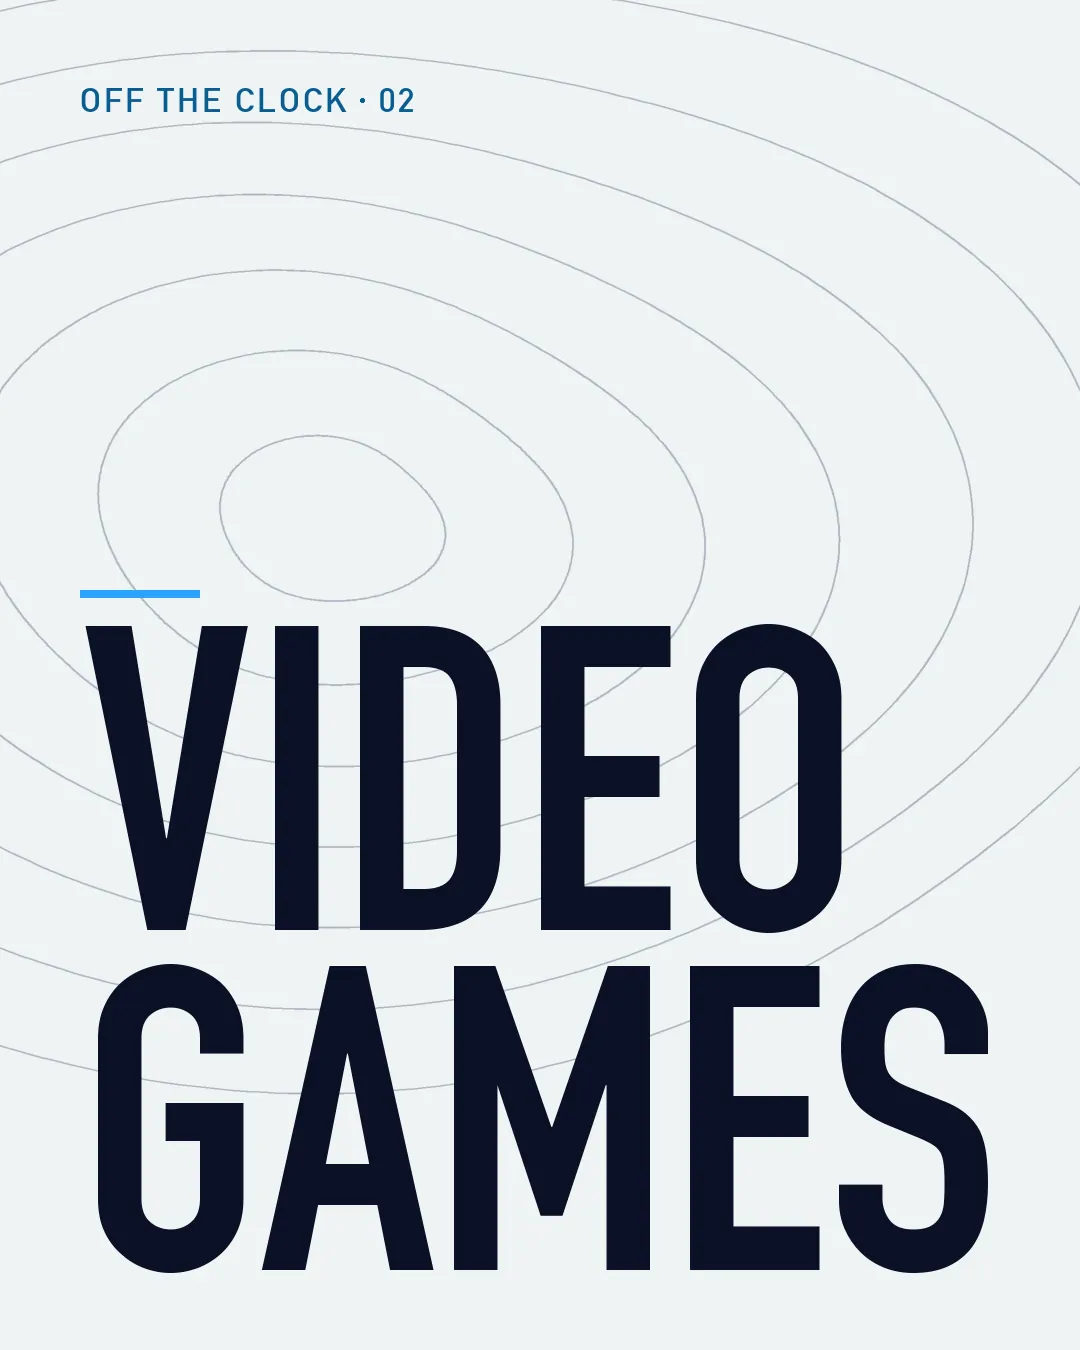
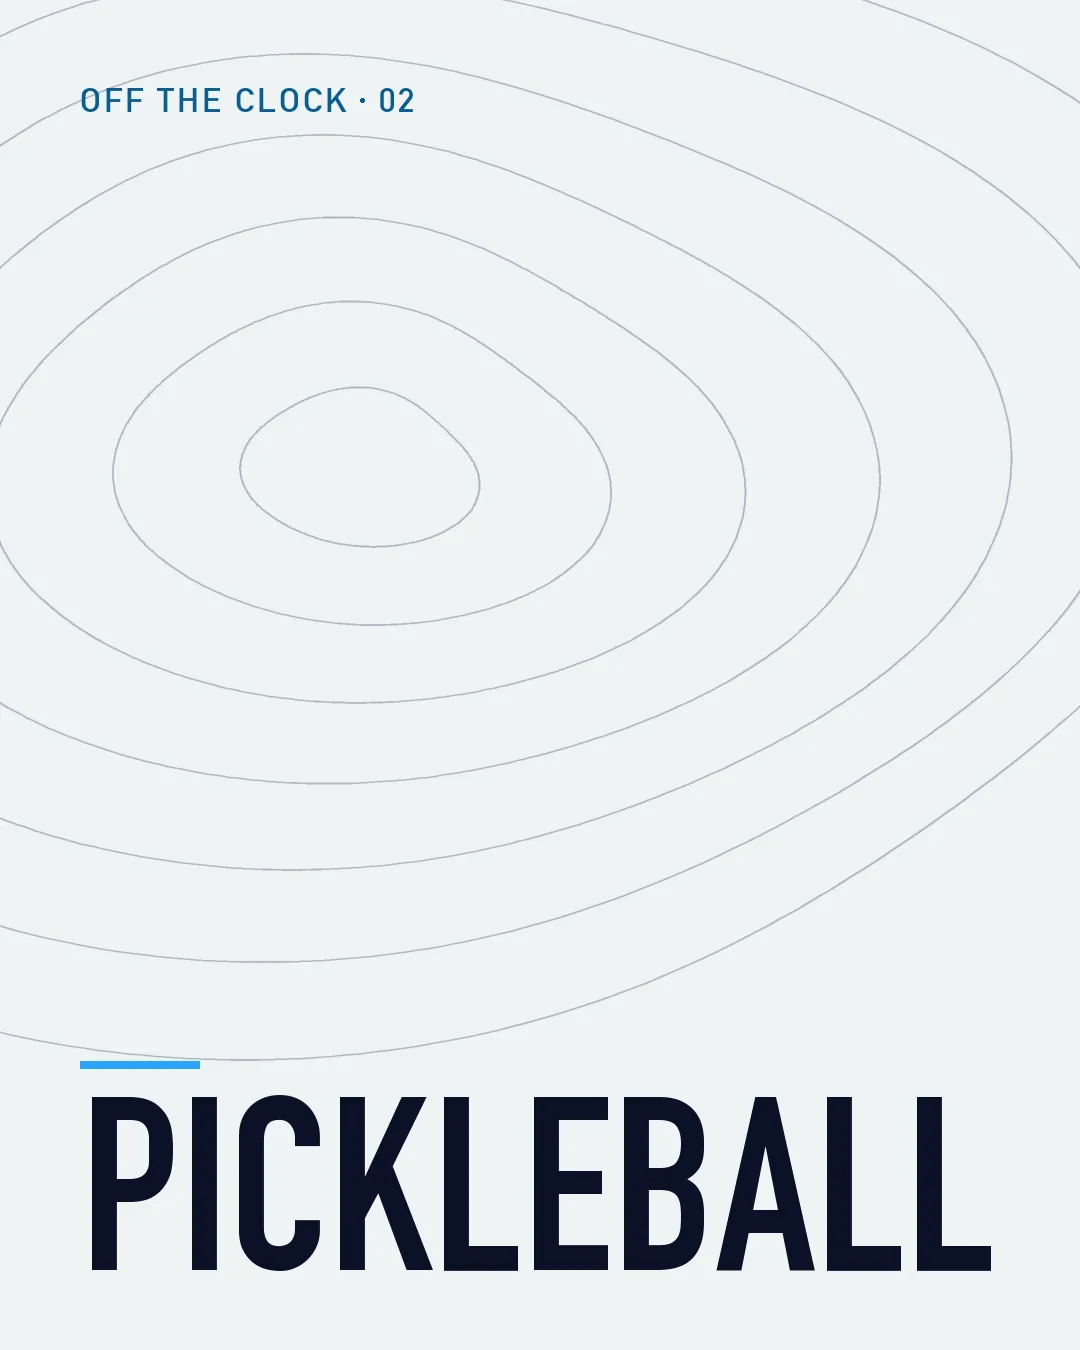
feat: Speaker achievement, barong photo on Cum Laude, reordered hobbies and Skills cards
- Achievements: Cum Laude uses the barong portrait; new Speaker card (AI for Healthcare, 10th CVHRIC,
  Bohol Cultural Center, May 2025) from the conference photo; cards alternate sides on wide screens
- Off the clock: tiles regenerated in the order Basketball, Pickleball, Coffee hopping, Trail hiking,
  Video games, TV series (numbers and dark/light follow it); hobby tags in the same order
- Profession: "Production AI ownership" -> "AI ownership"
- Skills: Software Engineering first, AI Engineering second
- Removed the unused grad-1 photos; cvhric.jpg (has GPS location) left out of the repo, only its web crops ship

diff --git a/index.html b/index.html
@@ -242,7 +242,7 @@
                 <h3 class="cond">Smartsourcing</h3>
                 <p class="stop-role">AI Engineer</p>
                 <p class="skill-desc">Co-leading the development of production-ready AI agents and scalable internal platforms, automating complex workflows, reducing reliance on costly SaaS solutions, and delivering secure, reliable systems from concept to deployment.</p>
-                <ul class="tags"><li>Production AI ownership</li><li>Intelligent agents</li><li>Scalable business solutions</li></ul>
+                <ul class="tags"><li>AI ownership</li><li>Intelligent agents</li><li>Scalable business solutions</li></ul>
               </article>
             </li>
           </ol>
@@ -297,6 +297,25 @@
           </div>
           <div class="skills-grid">
             <article class="hud skill" data-reveal style="--i:0">
+              <p class="hud-label">Build</p>
+              <h3 class="cond">Software Engineering</h3>
+              <p class="skill-desc">Building scalable, full-stack softwares and internal platforms, from interfaces and APIs to databases and integrations, with a focus on solving business challenges and streamlining operations.</p>
+              <ul class="logos">
+                <li><img src="./src/assets/logos/python-original.svg" alt="" width="20" height="20" loading="lazy" decoding="async" /><span>Python</span></li>
+                <li><img src="./src/assets/logos/typescript-original.svg" alt="" width="20" height="20" loading="lazy" decoding="async" /><span>TypeScript</span></li>
+                <li><img src="./src/assets/logos/javascript-original.svg" alt="" width="20" height="20" loading="lazy" decoding="async" /><span>JavaScript</span></li>
+                <li><img src="./src/assets/logos/react-original.svg" alt="" width="20" height="20" loading="lazy" decoding="async" /><span>React</span></li>
+                <li><img src="./src/assets/logos/django-plain.svg" alt="" width="20" height="20" loading="lazy" decoding="async" /><span>Django</span></li>
+                <li><img src="./src/assets/logos/fastapi-original.svg" alt="" width="20" height="20" loading="lazy" decoding="async" /><span>FastAPI</span></li>
+                <li><img src="./src/assets/logos/postgresql-original.svg" alt="" width="20" height="20" loading="lazy" decoding="async" /><span>PostgreSQL</span></li>
+                <li><img src="./src/assets/logos/microsoftsqlserver-plain.svg" alt="" width="20" height="20" loading="lazy" decoding="async" /><span>MS SQL Server</span></li>
+                <li><img src="./src/assets/logos/supabase-original.svg" alt="" width="20" height="20" loading="lazy" decoding="async" /><span>Supabase</span></li>
+                <li><img src="./src/assets/logos/playwright-original.svg" alt="" width="20" height="20" loading="lazy" decoding="async" /><span>Playwright</span></li>
+                <li><img src="./src/assets/logos/jest-plain.svg" alt="" width="20" height="20" loading="lazy" decoding="async" /><span>Jest</span></li>
+                <li><img src="./src/assets/logos/cypressio-original.svg" alt="" width="20" height="20" loading="lazy" decoding="async" /><span>Cypress</span></li>
+              </ul>
+            </article>
+            <article class="hud skill" data-reveal style="--i:1">
               <p class="hud-label">AI</p>
               <h3 class="cond">AI Engineering</h3>
               <p class="skill-desc">Designing and deploying production-ready AI agents, RAG systems, and intelligent workflows through LLM integration, orchestration, and evaluation, with a focus on security, reliability, and cost efficiency.</p>
@@ -317,25 +336,6 @@
                 <li><img src="./src/assets/logos/icon-evals.svg" alt="" width="20" height="20" loading="lazy" decoding="async" /><span>LLMOps &amp; Evals</span></li>
                 <li><img src="./src/assets/logos/n8n.svg" alt="" width="20" height="20" loading="lazy" decoding="async" /><span>n8n</span></li>
                 <li><img src="./src/assets/logos/microsoft.svg" alt="" width="20" height="20" loading="lazy" decoding="async" /><span>Power Automate</span></li>
-              </ul>
-            </article>
-            <article class="hud skill" data-reveal style="--i:1">
-              <p class="hud-label">Build</p>
-              <h3 class="cond">Software Engineering</h3>
-              <p class="skill-desc">Building scalable, full-stack softwares and internal platforms, from interfaces and APIs to databases and integrations, with a focus on solving business challenges and streamlining operations.</p>
-              <ul class="logos">
-                <li><img src="./src/assets/logos/python-original.svg" alt="" width="20" height="20" loading="lazy" decoding="async" /><span>Python</span></li>
-                <li><img src="./src/assets/logos/typescript-original.svg" alt="" width="20" height="20" loading="lazy" decoding="async" /><span>TypeScript</span></li>
-                <li><img src="./src/assets/logos/javascript-original.svg" alt="" width="20" height="20" loading="lazy" decoding="async" /><span>JavaScript</span></li>
-                <li><img src="./src/assets/logos/react-original.svg" alt="" width="20" height="20" loading="lazy" decoding="async" /><span>React</span></li>
-                <li><img src="./src/assets/logos/django-plain.svg" alt="" width="20" height="20" loading="lazy" decoding="async" /><span>Django</span></li>
-                <li><img src="./src/assets/logos/fastapi-original.svg" alt="" width="20" height="20" loading="lazy" decoding="async" /><span>FastAPI</span></li>
-                <li><img src="./src/assets/logos/postgresql-original.svg" alt="" width="20" height="20" loading="lazy" decoding="async" /><span>PostgreSQL</span></li>
-                <li><img src="./src/assets/logos/microsoftsqlserver-plain.svg" alt="" width="20" height="20" loading="lazy" decoding="async" /><span>MS SQL Server</span></li>
-                <li><img src="./src/assets/logos/supabase-original.svg" alt="" width="20" height="20" loading="lazy" decoding="async" /><span>Supabase</span></li>
-                <li><img src="./src/assets/logos/playwright-original.svg" alt="" width="20" height="20" loading="lazy" decoding="async" /><span>Playwright</span></li>
-                <li><img src="./src/assets/logos/jest-plain.svg" alt="" width="20" height="20" loading="lazy" decoding="async" /><span>Jest</span></li>
-                <li><img src="./src/assets/logos/cypressio-original.svg" alt="" width="20" height="20" loading="lazy" decoding="async" /><span>Cypress</span></li>
               </ul>
             </article>
             <article class="hud skill" data-reveal style="--i:2">
@@ -371,7 +371,7 @@
             <li class="hud achievement" data-reveal>
               <div class="achievement-media">
                 <div class="carousel" data-carousel>
-                  <img class="is-current" src="./src/assets/images/grad-1-1080.webp" srcset="./src/assets/images/grad-1-480.webp 480w, ./src/assets/images/grad-1-1080.webp 1080w" sizes="(max-width: 900px) 92vw, 46vw" alt="Portrait of Bronn Samson" width="1080" height="810" decoding="async" />
+                  <img class="is-current" src="./src/assets/images/barong-1080.webp" srcset="./src/assets/images/barong-480.webp 480w, ./src/assets/images/barong-1080.webp 1080w" sizes="(max-width: 900px) 92vw, 46vw" alt="Bronn Samson in a barong Tagalog" width="1080" height="810" decoding="async" />
                   <div class="carousel-ui">
                     <button type="button" class="carousel-btn" data-step="-1" aria-label="Previous photo"><svg class="icon" viewBox="0 0 24 24" aria-hidden="true"><path d="m15 5-7 7 7 7" /></svg></button>
                     <div class="carousel-dots"></div>
@@ -393,6 +393,30 @@
                 <div class="achievement-actions">
                   <a class="text-link" href="#profession">Experience</a>
                 </div>
+              </div>
+            </li>
+            <li class="hud achievement" data-reveal>
+              <div class="achievement-media">
+                <div class="carousel" data-carousel>
+                  <img class="is-current" src="./src/assets/images/cvhric-1080.webp" srcset="./src/assets/images/cvhric-480.webp 480w, ./src/assets/images/cvhric-1080.webp 1080w" sizes="(max-width: 900px) 92vw, 46vw" alt="Bronn Samson holding his certificate on stage at the 10th Central Visayas Health Research &amp; Innovation Conference" width="1080" height="810" loading="lazy" decoding="async" />
+                  <div class="carousel-ui">
+                    <button type="button" class="carousel-btn" data-step="-1" aria-label="Previous photo"><svg class="icon" viewBox="0 0 24 24" aria-hidden="true"><path d="m15 5-7 7 7 7" /></svg></button>
+                    <div class="carousel-dots"></div>
+                    <button type="button" class="carousel-btn" data-step="1" aria-label="Next photo"><svg class="icon" viewBox="0 0 24 24" aria-hidden="true"><path d="m9 5 7 7-7 7" /></svg></button>
+                  </div>
+                </div>
+                <span class="achievement-badge"><svg class="icon" viewBox="0 0 24 24" aria-hidden="true"><path d="M12 3a3 3 0 0 0-3 3v5a3 3 0 0 0 6 0V6a3 3 0 0 0-3-3ZM5.5 11a6.5 6.5 0 0 0 13 0M12 17.5V21M8.5 21h7" /></svg>Speaker</span>
+              </div>
+              <div class="achievement-body">
+                <p class="hud-label">Health Research Conference Speaker</p>
+                <h3 class="cond">Speaker<span>AI for Healthcare</span></h3>
+                <p class="achievement-desc">Spoke on AI for healthcare at the 10th Central Visayas Health Research &amp; Innovation Conference (CVHRIC) in Tagbilaran City, Bohol.</p>
+                <dl class="achievement-facts">
+                  <div><dt>Conference</dt><dd>10th CVHRIC</dd></div>
+                  <div><dt>Venue</dt><dd>Bohol Cultural Center</dd></div>
+                  <div><dt>Date</dt><dd>May 2025</dd></div>
+                </dl>
+                <ul class="tags"><li>AI for healthcare</li><li>Health research</li><li>Public speaking</li></ul>
               </div>
             </li>
           </ul>
@@ -435,16 +459,16 @@
               <div class="offclock-bubble">
                 <p class="hud-label">Bronny</p>
                 <p class="offclock-desc">When I'm not debugging or designing systems, I'm on the basketball or pickleball court, hiking trails and mountains, deep in a video game or a TV series, or hopping between coffee shops around the city.</p>
-                <ul class="tags hobby-tags"><li><svg class="icon" viewBox="0 0 24 24" aria-hidden="true"><path d="M12 3a9 9 0 1 0 0 18 9 9 0 0 0 0-18ZM3 12h18M12 3v18M5.6 5.6c3.2 3.4 3.2 9.4 0 12.8M18.4 5.6c-3.2 3.4-3.2 9.4 0 12.8" /></svg>Basketball</li><li><svg class="icon" viewBox="0 0 24 24" aria-hidden="true"><path d="M14.5 3.5a5 5 0 0 1 6 6l-6.6 6.6a2 2 0 0 1-2.8 0l-3.2-3.2a2 2 0 0 1 0-2.8ZM8.6 13.8l-5.1 5.1 1.6 1.6 5.1-5.1M18.5 16.5a2 2 0 1 0 0 4 2 2 0 0 0 0-4Z" /></svg>Pickleball</li><li><svg class="icon" viewBox="0 0 24 24" aria-hidden="true"><path d="m3 20 6.5-11 4 6.5 2.5-4L21 20H3ZM7.6 12.2 9.5 14l1.7-1.5" /></svg>Hiking</li><li><svg class="icon" viewBox="0 0 24 24" aria-hidden="true"><path d="M7 8h10a4 4 0 0 1 4 4v2.5a2.5 2.5 0 0 1-4.6 1.4L15 14H9l-1.4 1.9A2.5 2.5 0 0 1 3 14.5V12a4 4 0 0 1 4-4ZM8 10.5v3M6.5 12h3M15.5 11.5h.01M17.5 13h.01" /></svg>Video games</li><li><svg class="icon" viewBox="0 0 24 24" aria-hidden="true"><path d="M4 9h12v5a5 5 0 0 1-5 5H9a5 5 0 0 1-5-5V9ZM16 10h1.5a2.5 2.5 0 0 1 0 5H16M8 3.5v2.5M12 3.5v2.5" /></svg>Coffee hopping</li><li><svg class="icon" viewBox="0 0 24 24" aria-hidden="true"><path d="M5 6h14a2 2 0 0 1 2 2v9a2 2 0 0 1-2 2H5a2 2 0 0 1-2-2V8a2 2 0 0 1 2-2ZM8 2.5 12 6l4-3.5" /></svg>TV series</li></ul>
+                <ul class="tags hobby-tags"><li><svg class="icon" viewBox="0 0 24 24" aria-hidden="true"><path d="M12 3a9 9 0 1 0 0 18 9 9 0 0 0 0-18ZM3 12h18M12 3v18M5.6 5.6c3.2 3.4 3.2 9.4 0 12.8M18.4 5.6c-3.2 3.4-3.2 9.4 0 12.8" /></svg>Basketball</li><li><svg class="icon" viewBox="0 0 24 24" aria-hidden="true"><path d="M14.5 3.5a5 5 0 0 1 6 6l-6.6 6.6a2 2 0 0 1-2.8 0l-3.2-3.2a2 2 0 0 1 0-2.8ZM8.6 13.8l-5.1 5.1 1.6 1.6 5.1-5.1M18.5 16.5a2 2 0 1 0 0 4 2 2 0 0 0 0-4Z" /></svg>Pickleball</li><li><svg class="icon" viewBox="0 0 24 24" aria-hidden="true"><path d="M4 9h12v5a5 5 0 0 1-5 5H9a5 5 0 0 1-5-5V9ZM16 10h1.5a2.5 2.5 0 0 1 0 5H16M8 3.5v2.5M12 3.5v2.5" /></svg>Coffee hopping</li><li><svg class="icon" viewBox="0 0 24 24" aria-hidden="true"><path d="m3 20 6.5-11 4 6.5 2.5-4L21 20H3ZM7.6 12.2 9.5 14l1.7-1.5" /></svg>Trail hiking</li><li><svg class="icon" viewBox="0 0 24 24" aria-hidden="true"><path d="M7 8h10a4 4 0 0 1 4 4v2.5a2.5 2.5 0 0 1-4.6 1.4L15 14H9l-1.4 1.9A2.5 2.5 0 0 1 3 14.5V12a4 4 0 0 1 4-4ZM8 10.5v3M6.5 12h3M15.5 11.5h.01M17.5 13h.01" /></svg>Video games</li><li><svg class="icon" viewBox="0 0 24 24" aria-hidden="true"><path d="M5 6h14a2 2 0 0 1 2 2v9a2 2 0 0 1-2 2H5a2 2 0 0 1-2-2V8a2 2 0 0 1 2-2ZM8 2.5 12 6l4-3.5" /></svg>TV series</li></ul>
               </div>
             </div>
             <ul class="gallery" aria-label="Off-the-clock photos">
               <li class="gallery-item"><button type="button" class="burn" data-lightbox-src="./src/assets/images/offclock-1-1080.webp" data-lightbox-alt="Illustration tile: Basketball" aria-label="Open photo 1 of 6"><img src="./src/assets/images/offclock-1-480.webp" srcset="./src/assets/images/offclock-1-480.webp 480w, ./src/assets/images/offclock-1-1080.webp 1080w" sizes="320px" width="1080" height="1350" alt="" loading="lazy" decoding="async" /></button></li>
-              <li class="gallery-item"><button type="button" class="burn" data-lightbox-src="./src/assets/images/offclock-2-1080.webp" data-lightbox-alt="Illustration tile: Video games" aria-label="Open photo 2 of 6"><img src="./src/assets/images/offclock-2-480.webp" srcset="./src/assets/images/offclock-2-480.webp 480w, ./src/assets/images/offclock-2-1080.webp 1080w" sizes="320px" width="1080" height="1350" alt="" loading="lazy" decoding="async" /></button></li>
+              <li class="gallery-item"><button type="button" class="burn" data-lightbox-src="./src/assets/images/offclock-2-1080.webp" data-lightbox-alt="Illustration tile: Pickleball" aria-label="Open photo 2 of 6"><img src="./src/assets/images/offclock-2-480.webp" srcset="./src/assets/images/offclock-2-480.webp 480w, ./src/assets/images/offclock-2-1080.webp 1080w" sizes="320px" width="1080" height="1350" alt="" loading="lazy" decoding="async" /></button></li>
               <li class="gallery-item"><button type="button" class="burn" data-lightbox-src="./src/assets/images/offclock-3-1080.webp" data-lightbox-alt="Illustration tile: Coffee hopping" aria-label="Open photo 3 of 6"><img src="./src/assets/images/offclock-3-480.webp" srcset="./src/assets/images/offclock-3-480.webp 480w, ./src/assets/images/offclock-3-1080.webp 1080w" sizes="320px" width="1080" height="1350" alt="" loading="lazy" decoding="async" /></button></li>
-              <li class="gallery-item"><button type="button" class="burn" data-lightbox-src="./src/assets/images/offclock-4-1080.webp" data-lightbox-alt="Illustration tile: TV series" aria-label="Open photo 4 of 6"><img src="./src/assets/images/offclock-4-480.webp" srcset="./src/assets/images/offclock-4-480.webp 480w, ./src/assets/images/offclock-4-1080.webp 1080w" sizes="320px" width="1080" height="1350" alt="" loading="lazy" decoding="async" /></button></li>
-              <li class="gallery-item"><button type="button" class="burn" data-lightbox-src="./src/assets/images/offclock-5-1080.webp" data-lightbox-alt="Illustration tile: Pickleball" aria-label="Open photo 5 of 6"><img src="./src/assets/images/offclock-5-480.webp" srcset="./src/assets/images/offclock-5-480.webp 480w, ./src/assets/images/offclock-5-1080.webp 1080w" sizes="320px" width="1080" height="1350" alt="" loading="lazy" decoding="async" /></button></li>
-              <li class="gallery-item"><button type="button" class="burn" data-lightbox-src="./src/assets/images/offclock-6-1080.webp" data-lightbox-alt="Illustration tile: Trail hiking" aria-label="Open photo 6 of 6"><img src="./src/assets/images/offclock-6-480.webp" srcset="./src/assets/images/offclock-6-480.webp 480w, ./src/assets/images/offclock-6-1080.webp 1080w" sizes="320px" width="1080" height="1350" alt="" loading="lazy" decoding="async" /></button></li>
+              <li class="gallery-item"><button type="button" class="burn" data-lightbox-src="./src/assets/images/offclock-4-1080.webp" data-lightbox-alt="Illustration tile: Trail hiking" aria-label="Open photo 4 of 6"><img src="./src/assets/images/offclock-4-480.webp" srcset="./src/assets/images/offclock-4-480.webp 480w, ./src/assets/images/offclock-4-1080.webp 1080w" sizes="320px" width="1080" height="1350" alt="" loading="lazy" decoding="async" /></button></li>
+              <li class="gallery-item"><button type="button" class="burn" data-lightbox-src="./src/assets/images/offclock-5-1080.webp" data-lightbox-alt="Illustration tile: Video games" aria-label="Open photo 5 of 6"><img src="./src/assets/images/offclock-5-480.webp" srcset="./src/assets/images/offclock-5-480.webp 480w, ./src/assets/images/offclock-5-1080.webp 1080w" sizes="320px" width="1080" height="1350" alt="" loading="lazy" decoding="async" /></button></li>
+              <li class="gallery-item"><button type="button" class="burn" data-lightbox-src="./src/assets/images/offclock-6-1080.webp" data-lightbox-alt="Illustration tile: TV series" aria-label="Open photo 6 of 6"><img src="./src/assets/images/offclock-6-480.webp" srcset="./src/assets/images/offclock-6-480.webp 480w, ./src/assets/images/offclock-6-1080.webp 1080w" sizes="320px" width="1080" height="1350" alt="" loading="lazy" decoding="async" /></button></li>
             </ul>
           </div>
         </section>

diff --git a/src/css/home.css b/src/css/home.css
@@ -169,6 +169,11 @@
 
 /* ---------- Achievements ---------- */
 .paper .achievement { --accent: var(--brand); display: grid; grid-template-columns: minmax(0, 1.1fr) minmax(0, 1fr); align-items: center; gap: clamp(24px, 4vw, 56px); padding: clamp(14px, 1.6vw, 20px); }
+.achievements { display: grid; gap: 28px; }
+/* every second card mirrors: photo on the right */
+.paper .achievement:nth-child(even) { grid-template-columns: minmax(0, 1fr) minmax(0, 1.1fr); }
+.paper .achievement:nth-child(even) .achievement-media { order: 2; }
+.paper .achievement:nth-child(even) .achievement-body { padding: clamp(8px, 1.5vw, 20px) 0 clamp(8px, 1.5vw, 20px) clamp(8px, 1.5vw, 20px); }
 .achievement-media { position: relative; }
 .carousel { position: relative; aspect-ratio: 4 / 3; overflow: hidden; background: #0b102614; clip-path: var(--cut-lg); }
 .carousel > img { position: absolute; inset: 0; width: 100%; height: 100%; object-fit: cover; opacity: 0; scale: 1.06; transition: opacity 0.9s, scale 0s linear 0.9s; }
@@ -406,8 +411,9 @@ body:has(.lightbox[open]) { overflow: hidden; }
   .skills-grid > :last-child { grid-column: 1 / -1; }
 }
 @media (width <= 900px) {
-  .paper .achievement { grid-template-columns: 1fr; }
-  .achievement-body { padding: 8px; }
+  .paper .achievement, .paper .achievement:nth-child(even) { grid-template-columns: 1fr; }
+  .achievement-body, .paper .achievement:nth-child(even) .achievement-body { padding: 8px; }
+  .paper .achievement:nth-child(even) .achievement-media { order: 0; }
   /* three stops no longer fit "SMARTSOURCING": the roadmap stays horizontal, swipe along it, one stop per snap */
   .roadmap { grid-template-columns: none; grid-auto-flow: column; grid-auto-columns: min(78vw, 320px); margin: -48px calc(-1 * var(--gutter)) 0; padding: 48px var(--gutter) 12px; /* headroom: the scroller clips the top of a hop */ overflow-x: auto; scroll-snap-type: x mandatory; scroll-padding-inline: var(--gutter); scrollbar-width: none; }
   .roadmap::-webkit-scrollbar { display: none; }
